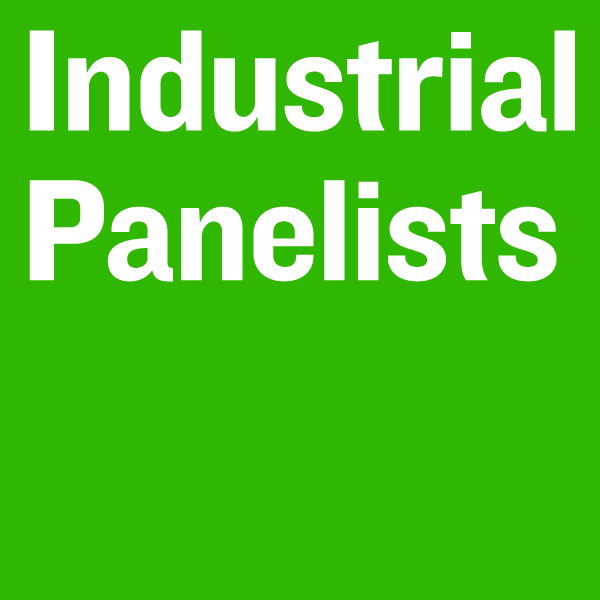
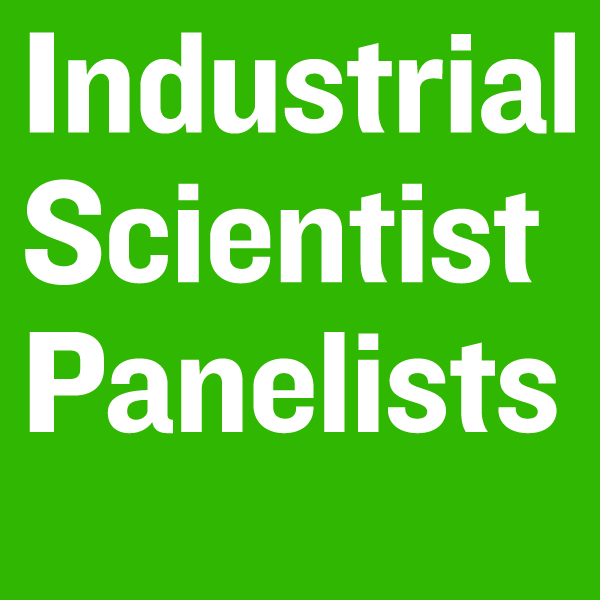
Fix bug list 1-14

diff --git a/HTML/index.html b/HTML/index.html
@@ -241,7 +241,7 @@ SPEAKERS
                                 </figcaption>
                             </figure>
                             <h4>Chia-Kuang (Frank) Tsung, Ph.D.</h4>
-                            <span class="title ">Assistant Professor, Chemistry, Boston University</span>
+                            <span class="title ">Assistant Professor, Chemistry, Boston College</span>
                         </div>
                         <!-- speaker 2.3 -->
                         <div class="speaker col-xs-12 col-sm-3 col-md-3 col-lg-3 ">
@@ -299,12 +299,12 @@ SPEAKERS
                             <figure>
                                 <img class="img-responsive " src="img/speaker_301.png " alt=" ">
                                 <figcaption style="background: rgba(48, 183, 1, 0.85)">
-                                    <h4>JCrystal C. Sung, Ph.D.</h4>
+                                    <h4>Crystal C. Sung, Ph.D.,D(ABMLI)</h4>
                                     <p>Dr. Sung has over 14 years of industry experience in biologics development. </p>
                                     <a class="speaker-detail " href="speaker_301.html "><i class="fa fa-2x fa-external-link "></i></a>
                                 </figcaption>
                             </figure>
-                            <h4>Crystal C. Sung, Ph.D.</h4>
+                            <h4>Crystal C. Sung, Ph.D., D(ABMLI)</h4>
                             <span class="title ">Director of Clinical Research, Sanofi </span>
                         </div>
                         <!-- speaker 3.2 -->
@@ -312,12 +312,12 @@ SPEAKERS
                             <figure>
                                 <img class="img-responsive " src="img/speaker_302.png " alt=" ">
                                 <figcaption style="background: rgba(48, 183, 1, 0.85)">
-                                    <h4>Eric Peng</h4>
-                                    <p>Aliquam ut laoreet velit. Proin orci est, vulputate aliquam eu, tincidunt laoreet lorem.</p>
+                                    <h4>彭浩帆博士</h4>
+                                    <p>Eric received his PhD from the SUNY Buffalo in chemical and biological engineering where he focused on regenerative medicine and preclinical animal model.</p>
                                     <a class="speaker-detail " href="speaker_302.html "><i class="fa fa-2x fa-external-link "></i></a>
                                 </figcaption>
                             </figure>
-                            <h4>Eric Peng</h4>
+                            <h4>Eric Peng, Ph. D.</h4>
                             <span class="title ">Sr. Engineer, Process Development, Biogen Idec</span>
                         </div>
                     </div>
@@ -327,12 +327,12 @@ SPEAKERS
                             <figure>
                                 <img class="img-responsive " src="img/speaker_303.png " alt=" ">
                                 <figcaption style="background: rgba(48, 183, 1, 0.85)">
-                                    <h4>Weilien Chuang</h4>
+                                    <h4>莊維廉博士</h4>
                                     <p>Dr. Chuang has more than fifteen years of working experience in the pharmaceutical industry.</p>
                                     <a class="speaker-detail " href="speaker_303.html "><i class="fa fa-2x fa-external-link "></i></a>
                                 </figcaption>
                             </figure>
-                            <h4>Weilien Chuang</h4>
+                            <h4>Wei Lien Chuang, Ph. D.</h4>
                             <span class="title ">Principle Scientist, Analytical Chemistry, Sanofi </span>
                         </div>
                         <!-- speaker 3.4 -->
@@ -340,12 +340,12 @@ SPEAKERS
                             <figure>
                                 <img class="img-responsive " src="img/speaker_304.png " alt=" ">
                                 <figcaption style="background: rgba(48, 183, 1, 0.85)">
-                                    <h4>Alice Tsai</h4>
+                                    <h4>Alice Tsai, Ph. D.</h4>
                                     <p>Dr. Alice Tsai is a talented research scientist at the Vertex Pharmaceuticals. She has been working in the industry for seven years.</p>
                                     <a class="speaker-detail " href="speaker_304.html "><i class="fa fa-2x fa-external-link "></i></a>
                                 </figcaption>
                             </figure>
-                            <h4>Alice Tsai</h4>
+                            <h4>Alice Tsai, Ph. D.</h4>
                             <span class="title ">Sr. Scientist, PKPD, Vertex Pharmaceuticals </span>
                         </div>
                         <!-- speaker 3.5 -->
@@ -353,12 +353,12 @@ SPEAKERS
                             <figure>
                                 <img class="img-responsive " src="img/speaker_305.png " alt=" ">
                                 <figcaption style="background: rgba(48, 183, 1, 0.85)">
-                                    <h4>Hon-Ren Huang</h4>
+                                    <h4>Hon-Ren Huang, Ph. D.</h4>
                                     <p>Dr. Hong-Ren Huang has a broad spectrum of knowledge in the high through put drug discovery.</p>
                                     <a class="speaker-detail " href="speaker_305.html "><i class="fa fa-2x fa-external-link "></i></a>
                                 </figcaption>
                             </figure>
-                            <h4>Hon-Ren Huang</h4>
+                            <h4>HHon-Ren Huang, Ph. D.</h4>
                             <span class="title ">Sr. Scientist, Constellation Pharmaceuticals</span>
                         </div>
                         <!--
@@ -484,35 +484,35 @@ SPEAKERS
                                 <img class="img-responsive " src="img/speaker_501.jpg " alt=" ">
                                 <figcaption style="background: rgba(3, 174, 160, 0.85)">
                                     <h4>熊婉真</h4>
-                                    <p>She received her M.B.A. from Harvard Business School in 2014 and master’s and bachelor’s degrees in Bioengineering from UC San Diego</p>
+                                    <p>Jenny received her M.B.A. from Harvard Business School in 2014 and master’s and bachelor’s degrees in Bioengineering from UC San Diego</p>
                                     <a class="speaker-detail " href="speaker_501.html "><i class="fa fa-2x fa-external-link "></i></a>
                                 </figcaption>
                             </figure>
-                            <h4>Jenny Hsiung</h4>
+                            <h4>Jenny Hsiung, M.S., MBA.</h4>
                             <span class="title ">Executive Assistant to President, Taiwan Liposome Company (TLC)</span>
                         </div>
                         <div class="speaker col-xs-12 col-sm-3 col-md-3 col-lg-3 ">
                             <figure>
                                 <img class="img-responsive " src="img/speaker_502.jpg " alt=" ">
                                 <figcaption style="background: rgba(3, 174, 160, 0.85)">
-                                    <h4>許嘉欽 總經理</h4>
+                                    <h4>許嘉欽總經理</h4>
                                     <p>Mr. Sheu holds master's degrees in packaging and food technology from Michigan State University and Iowa State University, respectively.</p>
                                     <a class="speaker-detail " href="speaker_502.html "><i class="fa fa-2x fa-external-link "></i></a>
                                 </figcaption>
                             </figure>
-                            <h4>Chia-Chin Sheu</h4>
+                            <h4>Chia-Chin Sheu, M.S.</h4>
                             <span class="title ">President, Simpson Biotech Co., Ltd.</span>
                         </div>
                         <div class="speaker col-xs-12 col-sm-3 col-md-3 col-lg-3 ">
                             <figure>
                                 <img class="img-responsive " src="img/speaker_504.jpg " alt=" ">
                                 <figcaption style="background: rgba(3, 174, 160, 0.85)">
-                                    <h4>Sue Xu</h4>
+                                    <h4>Sue Xu, Ph.D.</h4>
                                     <p>Sue a biologist who has a strong interest in developing novel therapeutics in treating human disease. </p>
                                     <a class="speaker-detail " href="speaker_503.html "><i class="fa fa-2x fa-external-link "></i></a>
                                 </figcaption>
                             </figure>
-                            <h4>Sue Xu</h4>
+                            <h4>Sue Xu, Ph.D.</h4>
                             <span class="title ">Senior Director of Oncology, PharmaEssentia Corporation</span>
                         </div>
                         <div class="speaker col-xs-12 col-sm-3 col-md-3 col-lg-3 ">
@@ -524,7 +524,7 @@ SPEAKERS
                                     <a class="speaker-detail " href="speaker_504.html "><i class="fa fa-2x fa-external-link "></i></a>
                                 </figcaption>
                             </figure>
-                            <h4>Nan-Horng (Stan) Lin,  Ph.D</h4>
+                            <h4>Nan-Horng (Stan) Lin, Ph.D.</h4>
                             <span class="title ">Senior VP, CHO Pharma</span>
                         </div>
                     </div>
@@ -647,7 +647,7 @@ oo     .d8P `88b    ooo   888     888   888       o  888     d88'  `88.    .8'  
                                         <span class="time">02.40 PM</span>
                                     </div>
                                     <div class="description">
-                                        <h3>Industrial Panel </h3>
+                                        <h3>Industrial Scientist Panel </h3>
                                     </div>
                                 </div>
                             </div>
